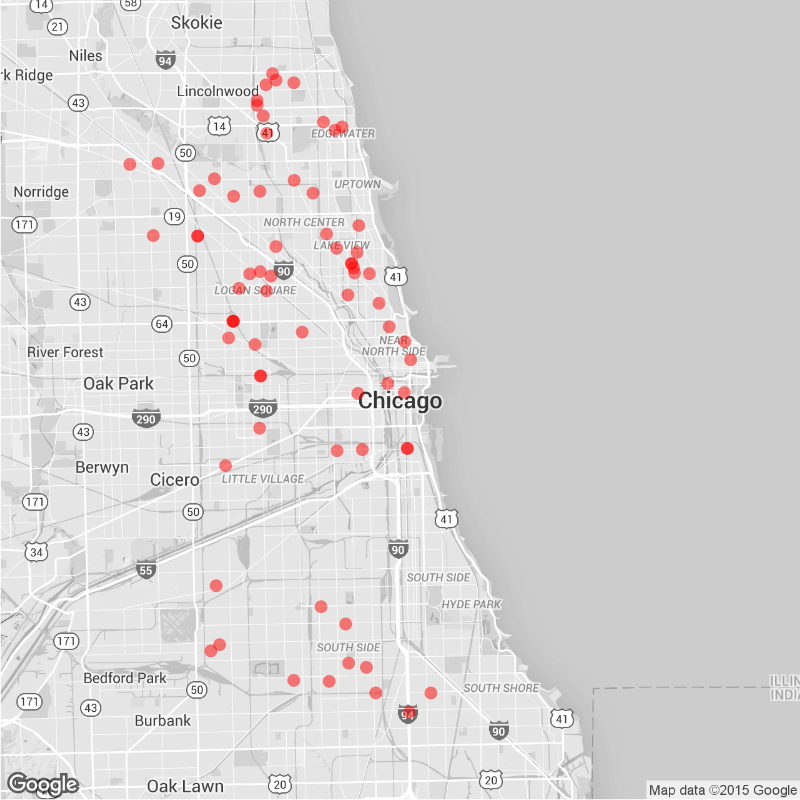
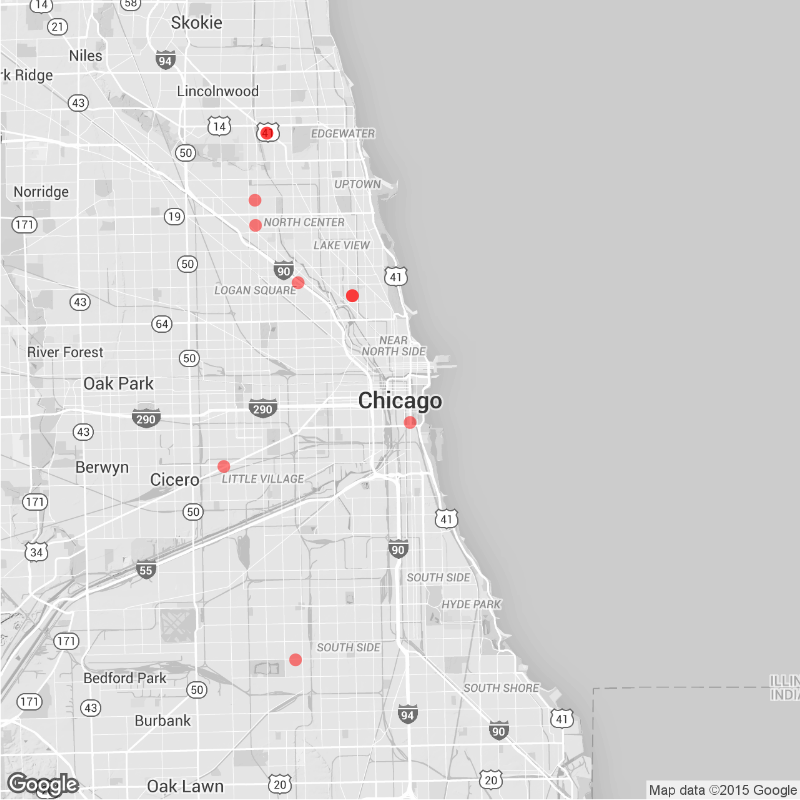
Daily Maps

diff --git a/daily.md b/daily.md
@@ -15,22 +15,22 @@ tags: Chicago NYC weekly daily rats
 
 ### Daily
 
-Yesterday (November 25), there were 72 calls to Chicago's 311 line about rats.
+Yesterday (November 26), there were 13 calls to Chicago's 311 line about rats.
 ![Chicago rat calls to 311 weekly map]({{ site.cityimages }}/daily/Chicago_Rat_Map_Daily.png)
 
 ### Weekly
-Between November 19 and November 25, there were 405 calls to Chicago's 311 line about rats. The average number of weekly calls for this time of year is 417.
+Between November 20 and November 26, there were 347 calls to Chicago's 311 line about rats. The average number of weekly calls for this time of year is 417.
 ![Chicago rat calls to 311 weekly map]({{ site.cityimages }}/daily/Chicago_Rat_Map_Weekly.png)
 ***
 # New York City <a id="nyc"><a>
 
 ### Daily
 
-Yesterday (November 25), there were 0 calls to New York City's 311 line about rats.
+Yesterday (November 26), there were 0 calls to New York City's 311 line about rats.
 ![NYC rat calls to 311 weekly map]({{ site.cityimages }}/daily/NYC_Rat_Map_Daily.png)
 
 ### Weekly
-Between November 19 and November 25, there were 0 calls to New York City's 311 line about rats. The average number of weekly calls for this time of year is 146.
+Between November 20 and November 26, there were 0 calls to New York City's 311 line about rats. The average number of weekly calls for this time of year is 146.
 ![NYC rat calls to 311 weekly map]({{ site.cityimages }}/daily/NYC_Rat_Map_Weekly.png)
 
 Each red dot represents one call about a rat seen in that location. The dots are transparent, so multiple calls from one location will be seen as a solid dot. The usual caveats apply: more calls do not necessarily mean that there are more rats in that location than other parts of the city. A cluster of dots could indicate that one resident is unusually vocal about rodents in his or her neighborhood. Also, more densely populated neighborhoods tend to make more calls to 311.
